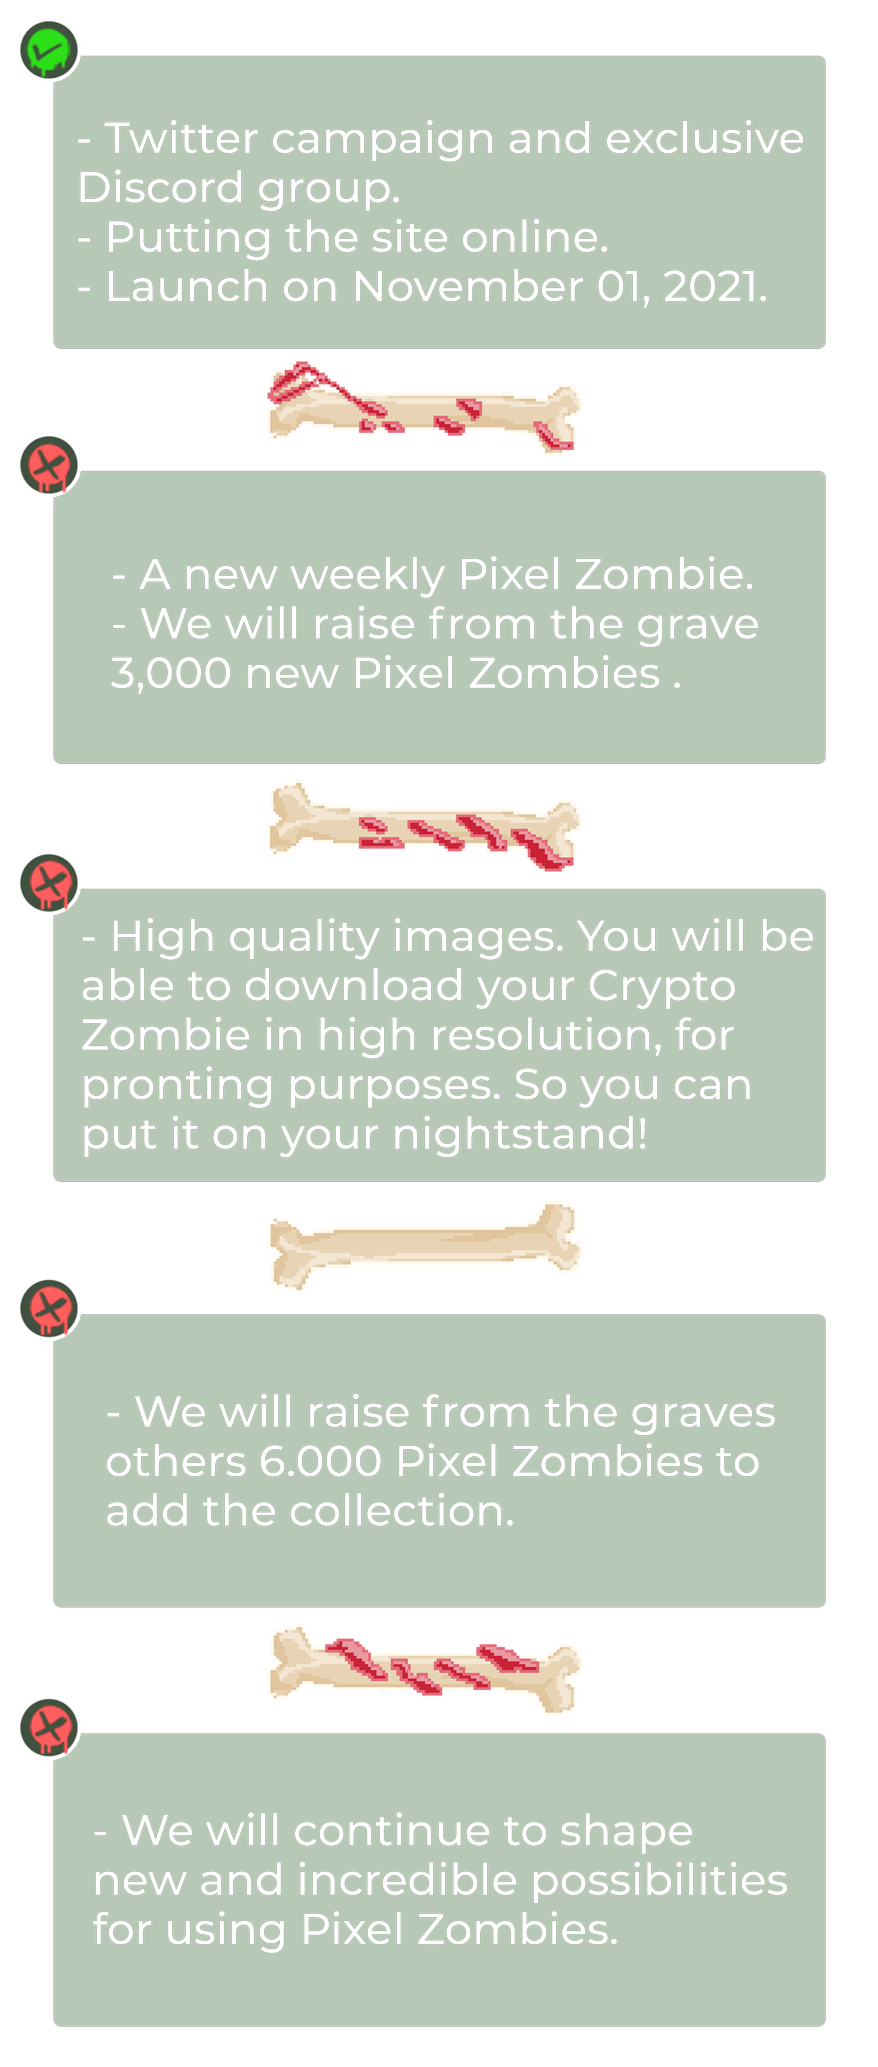
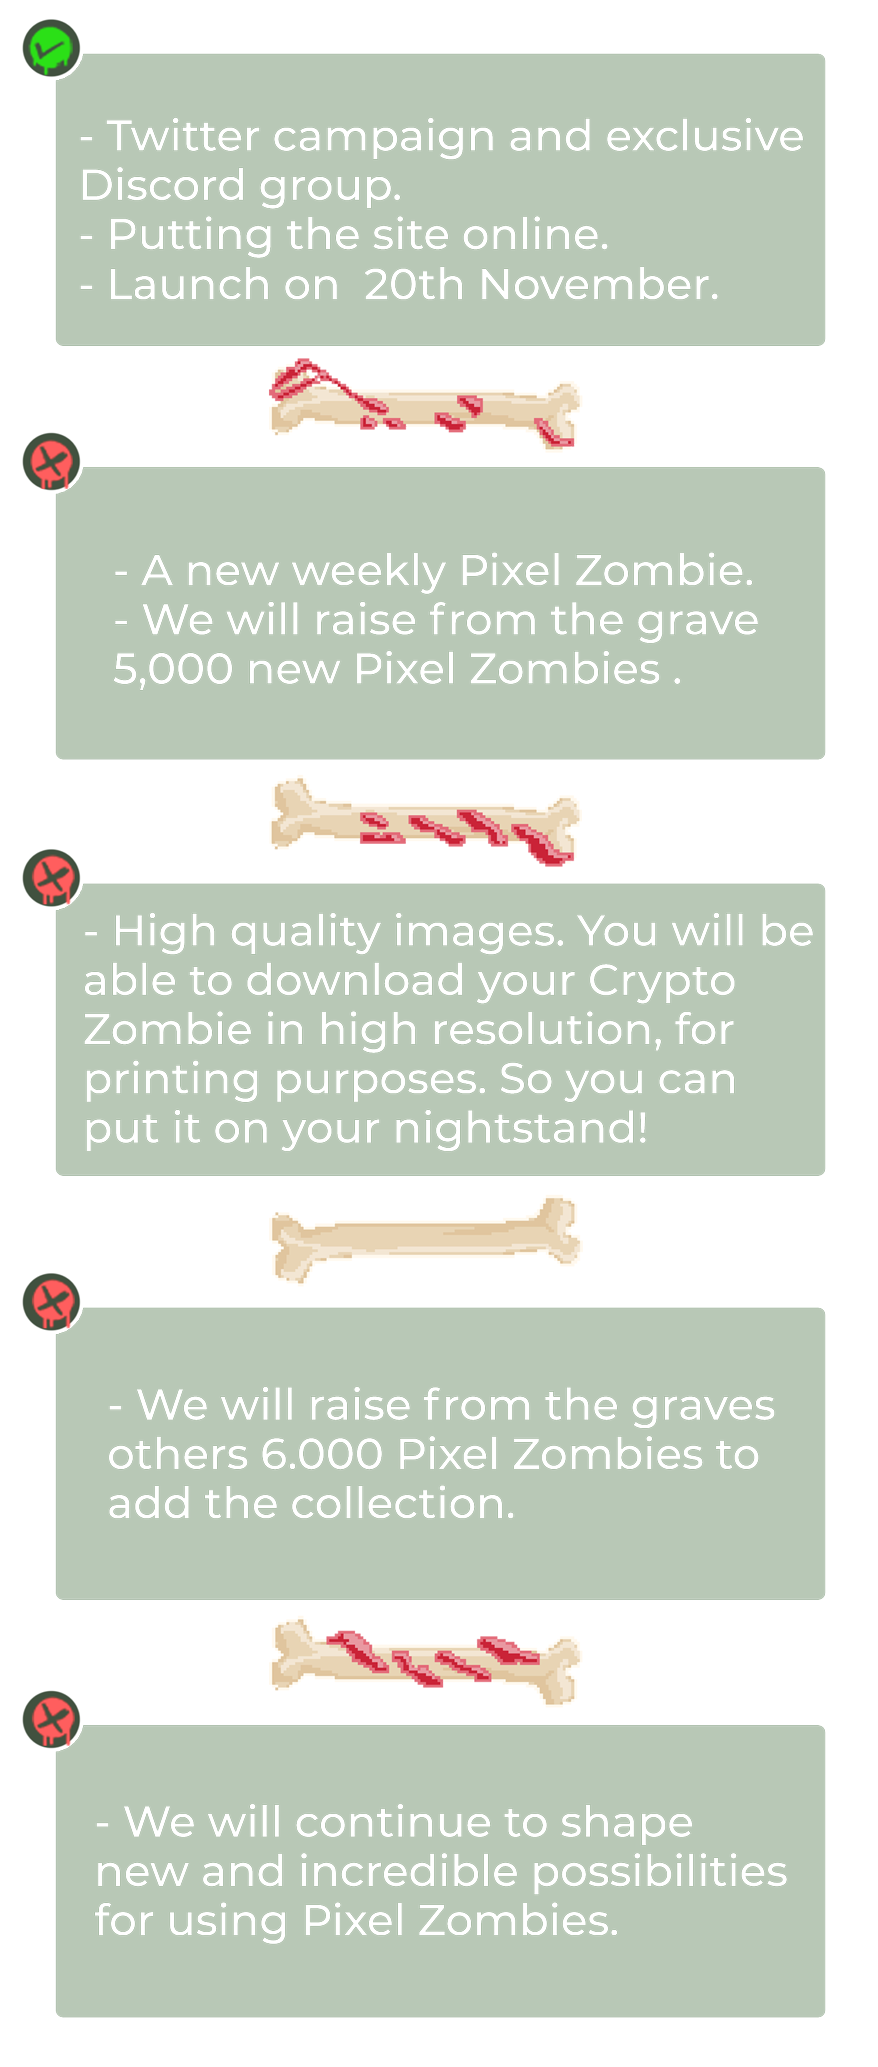
Button sale

diff --git a/src/components/mennu.js b/src/components/mennu.js
@@ -1,10 +1,17 @@
 export default function BarMenu({ setSelected, selected }) {
+  function OpenInNewTabSolsea(url) {
+    var win = window.open(
+      "https://solsea.io/collection/61881f4917f90ba22d595aac",
+      "_blank"
+    );
+    win.focus();
+  }
   function OpenInNewTabTwitter(url) {
     var win = window.open("https://twitter.com/Pixel_Zombies_", "_blank");
     win.focus();
   }
   function OpenInNewTabDiscord(url) {
-    var win = window.open("https://discord.gg/zZD7ePnq", "_blank");
+    var win = window.open("http://discord.gg/WRjFHqmpEP", "_blank");
     win.focus();
   }
   return (
@@ -18,7 +25,15 @@ export default function BarMenu({ setSelected, selected }) {
           </button>
         </li>
         <li className="li-menu">
-          <button className="button-style">Buy Pixel Zombie</button>
+          <button
+            className="button-style"
+            onClick={() =>
+              OpenInNewTabSolsea(
+                "https://solsea.io/collection/61881f4917f90ba22d595aac"
+              )
+            }>
+            Buy Pixel Zombie
+          </button>
         </li>
         <li className="li-menu">
           <button
@@ -32,7 +47,7 @@ export default function BarMenu({ setSelected, selected }) {
         <li className="li-menu">
           <button
             className="button-style"
-            onClick={() => OpenInNewTabDiscord("https://discord.gg/zZD7ePnq")}>
+            onClick={() => OpenInNewTabDiscord("http://discord.gg/WRjFHqmpEP")}>
             Discord
           </button>
         </li>

diff --git a/src/components/buttonMobile.js b/src/components/buttonMobile.js
@@ -1,10 +1,17 @@
 export default function ButtonJustMobile({ setSelected, selected }) {
+  function OpenInNewTabSolsea(url) {
+    var win = window.open(
+      "https://solsea.io/collection/61881f4917f90ba22d595aac",
+      "_blank"
+    );
+    win.focus();
+  }
   function OpenInNewTabTwitter(url) {
     var win = window.open("https://twitter.com/Pixel_Zombies_", "_blank");
     win.focus();
   }
   function OpenInNewTabDiscord(url) {
-    var win = window.open("https://discord.gg/zZD7ePnq", "_blank");
+    var win = window.open("http://discord.gg/WRjFHqmpEP", "_blank");
     win.focus();
   }
   return (
@@ -14,7 +21,15 @@ export default function ButtonJustMobile({ setSelected, selected }) {
         onClick={() => setSelected(!selected)}>
         Definition
       </button>
-      <button className="button-style-mobile">Buy Pixel Zombie</button>
+      <button
+        className="button-style-mobile"
+        onClick={() =>
+          OpenInNewTabSolsea(
+            "https://solsea.io/collection/61881f4917f90ba22d595aac"
+          )
+        }>
+        Buy Pixel Zombie
+      </button>
       <button
         className="button-style-mobile"
         onClick={() =>
@@ -24,7 +39,7 @@ export default function ButtonJustMobile({ setSelected, selected }) {
       </button>
       <button
         className="button-style-mobile"
-        onClick={() => OpenInNewTabDiscord("https://discord.gg/zZD7ePnq")}>
+        onClick={() => OpenInNewTabDiscord("http://discord.gg/WRjFHqmpEP")}>
         Discord
       </button>
     </div>

diff --git a/src/components/projectDefinition.js b/src/components/projectDefinition.js
@@ -12,7 +12,7 @@ export default function DefinitionFunction({ setSelected }) {
       </button>
       <h2 className="h2-title-dafinition">Come and join the Horde!</h2>
       <p className="paragraph-style">
-        Welcome to Pixel Zombies. 300 awesome living dead, coexisting right now
+        Welcome to Pixel Zombies. 120 awesome living dead, coexisting right now
         on the Solana blockchain.
       </p>
       <h2 className="h2-title-dafinition">Horde details</h2>
@@ -42,12 +42,12 @@ export default function DefinitionFunction({ setSelected }) {
           <p>He has all the answers, and that's it!</p>
         </li>
         <li>
-          <h3>- Zombie Ra-art</h3>
+          <h3>- Zombie Ramon Lucha</h3>
           <p>The creative guy, who is totally unaware of the real world.</p>
         </li>
       </p>
       <h2 className="Countdown">When Mint?</h2>
-      <h2 className="Countdown">X, November, 2021</h2>
+      <h2 className="Countdown">20th, November, 2021 at 20:00</h2>
     </div>
   );
 }

diff --git a/src/components/homepage.js b/src/components/homepage.js
@@ -28,7 +28,7 @@ export default function HomepageFunction() {
           </h1>
           <h2 className="h2-message">
             Hand-drawn, from initial sketch to final digital art, created by our
-            genius artist Ra-art
+            genius artist Ramon Lucha.
           </h2>
         </div>
       </div>
